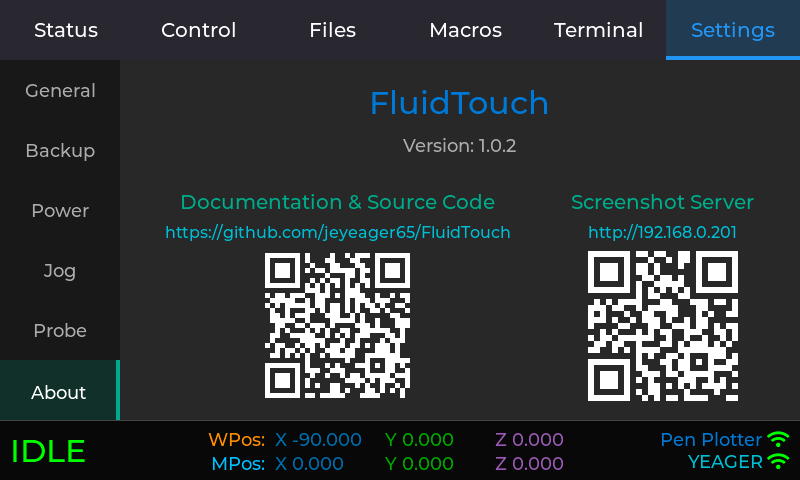
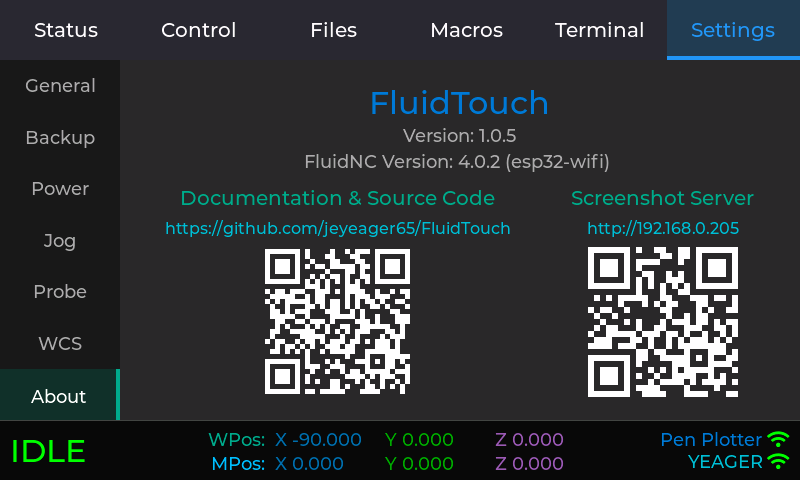
Release 1.0.5

diff --git a/web/index.html b/web/index.html
@@ -805,7 +805,7 @@
             Web Installer
         </p>
         <div class="version-badge">
-            <span>Version 1.0.4</span>
+            <span>Version 1.0.5</span>
         </div>
         <p style="text-align: center; font-size: 1.2em; color: #c9d1d9; margin-bottom: 30px;">
             ESP32 Touchscreen CNC Controller for FluidNC
@@ -813,22 +813,18 @@
 
         <!-- Changelog -->
         <div class="changelog">
-            <h3>🎉 Version 1.0.4</h3>
+            <h3>🎉 Version 1.0.5</h3>
             <div class="changelog-content">
                 <div class="changelog-version">
-                    <div class="changelog-date">March 23, 2026</div>
+                    <div class="changelog-date">April 24, 2026</div>
                     <ul class="changelog-items">
-                        <li><strong>A-Axis Support:</strong> Full optional 4th-axis support — enable via Settings → General → Enable A-Axis (takes effect after restart)
-                            <ul class="changelog-items">
-                                <li><strong>Jogging:</strong> A-axis section in Jog tab, Z/A toggle on Joystick tab right slider, Zero A button in Actions</li>
-                                <li><strong>Settings:</strong> Configure A-axis max feed rate and step sizes in Settings → Jog</li>
-                            </ul>
-                        </li>
-                        <li><strong>Configurable Jog Steps:</strong> XY, Z, and A-axis step button values are now fully customizable per machine in Settings → Jog</li>
-                        <li><strong>Bugfix:</strong> Resolved crash when browsing directories with large numbers of files</li>
-                        <li><strong>Bugfix:</strong> First touch after wake from deep sleep no longer triggers unintended UI actions</li>
-                        <li><strong>Improvement:</strong> Message display now filters to info/error messages only, reducing noise</li>
-                        <li><strong>Serial Forwarding:</strong> Commands entered in a serial terminal are forwarded to FluidNC for debugging</li>
+                        <li><strong>Probe / Limit Switch Indicators:</strong> Real-time pin status — probe indicator on Control → Probe and the Status tab; per-axis limit-switch indicators on Control → Actions and the Status tab. Triggered indicators stay visible for 500ms so brief activations are easy to see</li>
+                        <li><strong>Terminal History:</strong> Terminal tab retains command history — recall previous commands for re-sending</li>
+                        <li><strong>FluidNC Version on About Tab:</strong> Settings → About now displays the connected FluidNC controller's firmware version</li>
+                        <li><strong>M7 + M8 Coolant Display:</strong> Status tab now correctly shows both flood (M8) and mist (M7) coolant when active simultaneously</li>
+                        <li><strong>A-Axis is Per-Machine:</strong> A-axis enable/disable is now stored per machine instead of as a global setting, allowing mixed 3-axis and 4-axis configurations</li>
+                        <li><strong>Library Updates:</strong> LVGL 9.5.0, LovyanGFX 1.2.19, ArduinoJson 7.4.3</li>
+                        <li><strong>ESP32 Platform Branch:</strong> Switched to <code>Arduino/IDF53_gcc15</code> after the previous upstream branch was removed/renamed</li>
                     </ul>
                 </div>
             </div>
@@ -837,6 +833,23 @@
             <div class="changelog-collapsed" id="changelog-prior" style="margin-top: 15px; padding-top: 15px; border-top: 1px solid rgba(0, 188, 212, 0.2);">
                 <h3 onclick="toggleChangelog('changelog-prior')">📜 Prior Releases</h3>
                 <div class="changelog-content">
+                    <div class="changelog-version">
+                        <h4>Version 1.0.4 - A-Axis Support & Configurable Jog Steps</h4>
+                        <div class="changelog-date">March 23, 2026</div>
+                        <ul class="changelog-items">
+                            <li><strong>A-Axis Support:</strong> Full optional 4th-axis support — enable via Settings → General → Enable A-Axis (takes effect after restart)
+                                <ul class="changelog-items">
+                                    <li><strong>Jogging:</strong> A-axis section in Jog tab, Z/A toggle on Joystick tab right slider, Zero A button in Actions</li>
+                                    <li><strong>Settings:</strong> Configure A-axis max feed rate and step sizes in Settings → Jog</li>
+                                </ul>
+                            </li>
+                            <li><strong>Configurable Jog Steps:</strong> XY, Z, and A-axis step button values are now fully customizable per machine in Settings → Jog</li>
+                            <li><strong>Bugfix:</strong> Resolved crash when browsing directories with large numbers of files</li>
+                            <li><strong>Bugfix:</strong> First touch after wake from deep sleep no longer triggers unintended UI actions</li>
+                            <li><strong>Improvement:</strong> Message display now filters to info/error messages only, reducing noise</li>
+                            <li><strong>Serial Forwarding:</strong> Commands entered in a serial terminal are forwarded to FluidNC for debugging</li>
+                        </ul>
+                    </div>
                     <div class="changelog-version">
                         <h4>Version 1.0.3 - Advance v1.2 Support, mDNS, WCS Enhancements</h4>
                         <div class="changelog-date">February 10, 2026</div>

diff --git a/src/ui/tabs/ui_tab_terminal.cpp b/src/ui/tabs/ui_tab_terminal.cpp
@@ -233,8 +233,11 @@ void UITabTerminal::appendMessage(const char *message) {
         return;
     }
     
-    // Filter out ping messages (those starting with 'PING:')
-    if (strncmp(message, "PING:", 5) == 0) {
+    // Filter out ping messages ('PING' or 'PING:<count>:<interval>')
+    if (strncmp(message, "PING:", 5) == 0 ||
+        strcmp(message, "PING") == 0 ||
+        strcmp(message, "PING\n") == 0 ||
+        strcmp(message, "PING\r\n") == 0) {
         return;
     }
     

diff --git a/docs/ui-guide.md b/docs/ui-guide.md
@@ -135,8 +135,13 @@ Real-time machine status display with four columns:
 - Motion Mode (G0/G1/G2/G3)
 - Feed Mode (G93/G94)
 - Spindle State (M3/M4/M5)
-- Coolant (M7/M8/M9)
+- Coolant (M7/M8/M9 — shows both M7 and M8 when active simultaneously)
 - Tool Number
+
+**Pin Status Indicators:**
+- **Probe** indicator — lights up when the probe pin is active
+- **Limit X / Y / Z (and A)** indicators — light up per axis when a limit switch is triggered
+- Indicators remain visible for at least 500ms after deactivation so brief activations are easy to see
 
 ### SD Card File Progress
 (while running a job)
@@ -193,6 +198,10 @@ Machine control buttons:
 - **Zero A** - Zero A-axis work coordinate (visible only when A-axis is enabled)
 - **Unlock** - Clear alarm state ($X)
 - **Reset** - Soft reset (Ctrl+X)
+
+**Limit Switch Indicators:**
+- Per-axis indicators (X / Y / Z, plus A when enabled) light up when a limit switch is triggered
+- Indicators remain visible for at least 500ms after deactivation so brief activations are easy to see
 
 ### Jog
 
@@ -287,6 +296,10 @@ Touch probe operations:
 - Two-line result textarea
 - Shows probed axis value
 - Success/failure message
+
+**Probe Indicator:**
+- A probe pin indicator lights up whenever the probe input is active
+- Stays visible for at least 500ms after deactivation so brief contacts are easy to see
 
 ### Overrides
 
@@ -418,6 +431,11 @@ Raw WebSocket message display:
 - Auto-scroll toggle
 - Excludes messages such as status updates to prevent performance issues.
 
+**Command History:**
+- Up / Down arrow buttons next to the input field recall previously sent commands
+- Stores the most recent 10 unique commands; consecutive duplicates are skipped
+- History is kept while the controller is running (cleared on restart)
+
 ---
 
 ## Settings Tab
@@ -439,6 +457,7 @@ The Settings tab contains six sub-tabs for configuration:
 
 **Enable A-Axis:**
 - When enabled, a 4th A-axis is shown in the status bar, Status tab, Jog tab, Joystick tab, and Actions tab.
+- Setting is **per-machine** — the toggle applies to the currently selected machine, allowing mixed 3-axis and 4-axis configurations.
 - Requires a restart to take effect after changing.
 
 ### Backup
@@ -516,6 +535,7 @@ Power management and display brightness:
 
 Project information:
 - FluidTouch version
+- FluidNC controller firmware version (shown when connected)
 - GitHub link with QR code
 - Screenshot server link with QR code
 

diff --git a/CHANGELOG.md b/CHANGELOG.md
@@ -5,6 +5,30 @@ All notable changes to FluidTouch will be documented in this file.
 The format is based on [Keep a Changelog](https://keepachangelog.com/en/1.0.0/),
 and this project adheres to [Semantic Versioning](https://semver.org/spec/v2.0.0.html).
 
+## [1.0.5] - 2026-04-24
+
+### Added
+
+- **Probe / Limit Switch Indicators** - Real-time pin status indicators on Control tabs and Status tab
+  - Probe indicator on **Control → Probe** and on the Status tab
+  - Limit-switch indicators (per axis) on **Control → Actions** and on the Status tab
+  - Triggered indicators remain visible for 500ms so brief activations are easy to see
+- **Terminal History** - Terminal tab now retains command history; recall previous commands for re-sending
+- **FluidNC Version on About Tab** - Settings → About now displays the connected FluidNC controller's firmware version
+- **M7 + M8 Coolant Display** - Status tab correctly shows both flood (M8) and mist (M7) coolant when active simultaneously
+
+### Changed
+
+- **A-Axis Setting is Per-Machine** - A-axis enable/disable is now stored per machine instead of as a global setting, allowing mixed 3-axis and 4-axis machine configurations
+- **LVGL 9.5.0** - Updated UI library from 9.4.x to 9.5.0
+- **LovyanGFX 1.2.19** - Updated display driver
+- **ArduinoJson 7.4.3** - Updated JSON library
+- **ESP32 Platform Branch** - Switched to the `Arduino/IDF53_gcc15` branch of the Jason2866 ESP32 platform after the previous `Arduino/IDF53` branch was removed/renamed upstream
+
+### Fixed
+
+- **Build Compatibility** - Resolved build break caused by the LovyanGFX update
+
 ## [1.0.4] - 2026-03-23
 
 ### Added
@@ -108,6 +132,7 @@ FluidTouch 1.0.0 is the first stable release of the ESP32-S3 touchscreen CNC con
 - Configuration guide for WiFi, machines, and settings
 - Development guide for building from source
 
+[1.0.5]: https://github.com/jeyeager65/FluidTouch/releases/tag/v1.0.5
 [1.0.4]: https://github.com/jeyeager65/FluidTouch/releases/tag/v1.0.4
 [1.0.3]: https://github.com/jeyeager65/FluidTouch/releases/tag/v1.0.3
 [1.0.2]: https://github.com/jeyeager65/FluidTouch/releases/tag/v1.0.2

diff --git a/docs/configuration.md b/docs/configuration.md
@@ -104,7 +104,7 @@ Configure default jogging behavior:
   - Maximum speed for A-axis jogging
   - Used by joystick Z/A slider in A mode
   - Used by A jog buttons
-- **Note:** Only visible when A-axis is enabled in Settings → General
+- **Note:** Only visible when A-axis is enabled for the selected machine (Settings → General)
 
 ### XY Steps
 
@@ -123,7 +123,7 @@ Configure default jogging behavior:
 - **Format:** Comma-separated values (e.g., `50,25,10,1,0.1`)
 - **Default:** `50,25,10,1,0.1`
 - **Usage:** Defines the step size buttons shown in the A jog section
-- **Note:** Only visible when A-axis is enabled in Settings → General
+- **Note:** Only visible when A-axis is enabled for the selected machine (Settings → General)
 
 ---
 

diff --git a/README.md b/README.md
@@ -4,7 +4,7 @@
 
 FluidTouch provides an intuitive 800×480 touchscreen interface for controlling CNC machines running FluidNC firmware. Built on the Elecrow CrowPanel 7" ESP32-S3 HMI display with hardware-accelerated graphics and a responsive LVGL-based UI.
 
-![Version](https://img.shields.io/badge/version-1.0.4-blue)
+![Version](https://img.shields.io/badge/version-1.0.5-blue)
 ![Platform](https://img.shields.io/badge/platform-ESP32--S3-green)
 ![License](https://img.shields.io/badge/license-MIT-orange)
 
